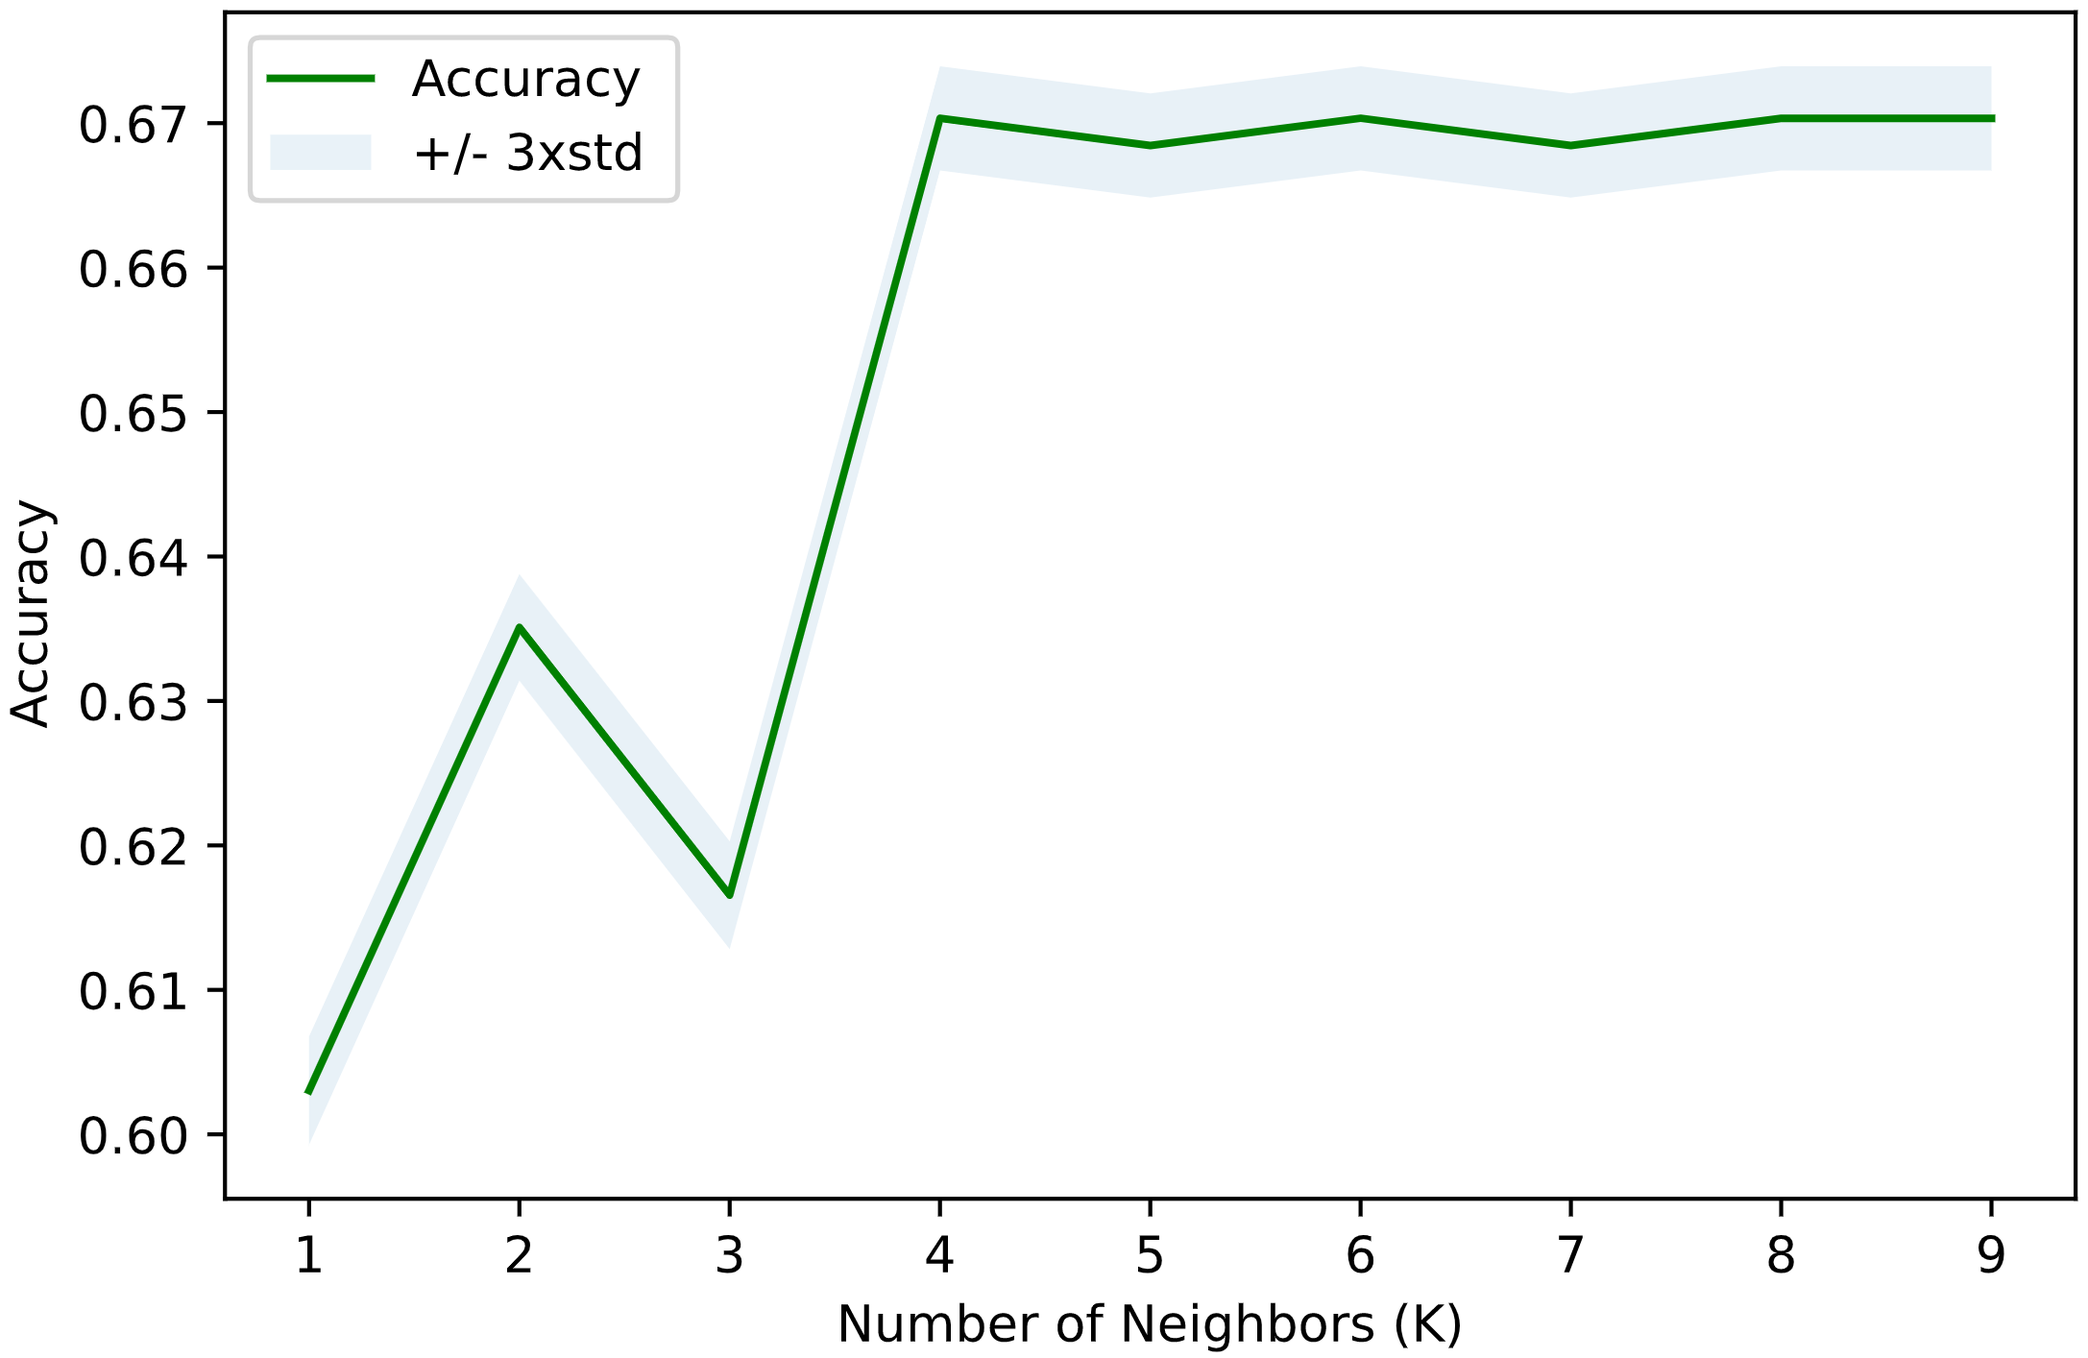
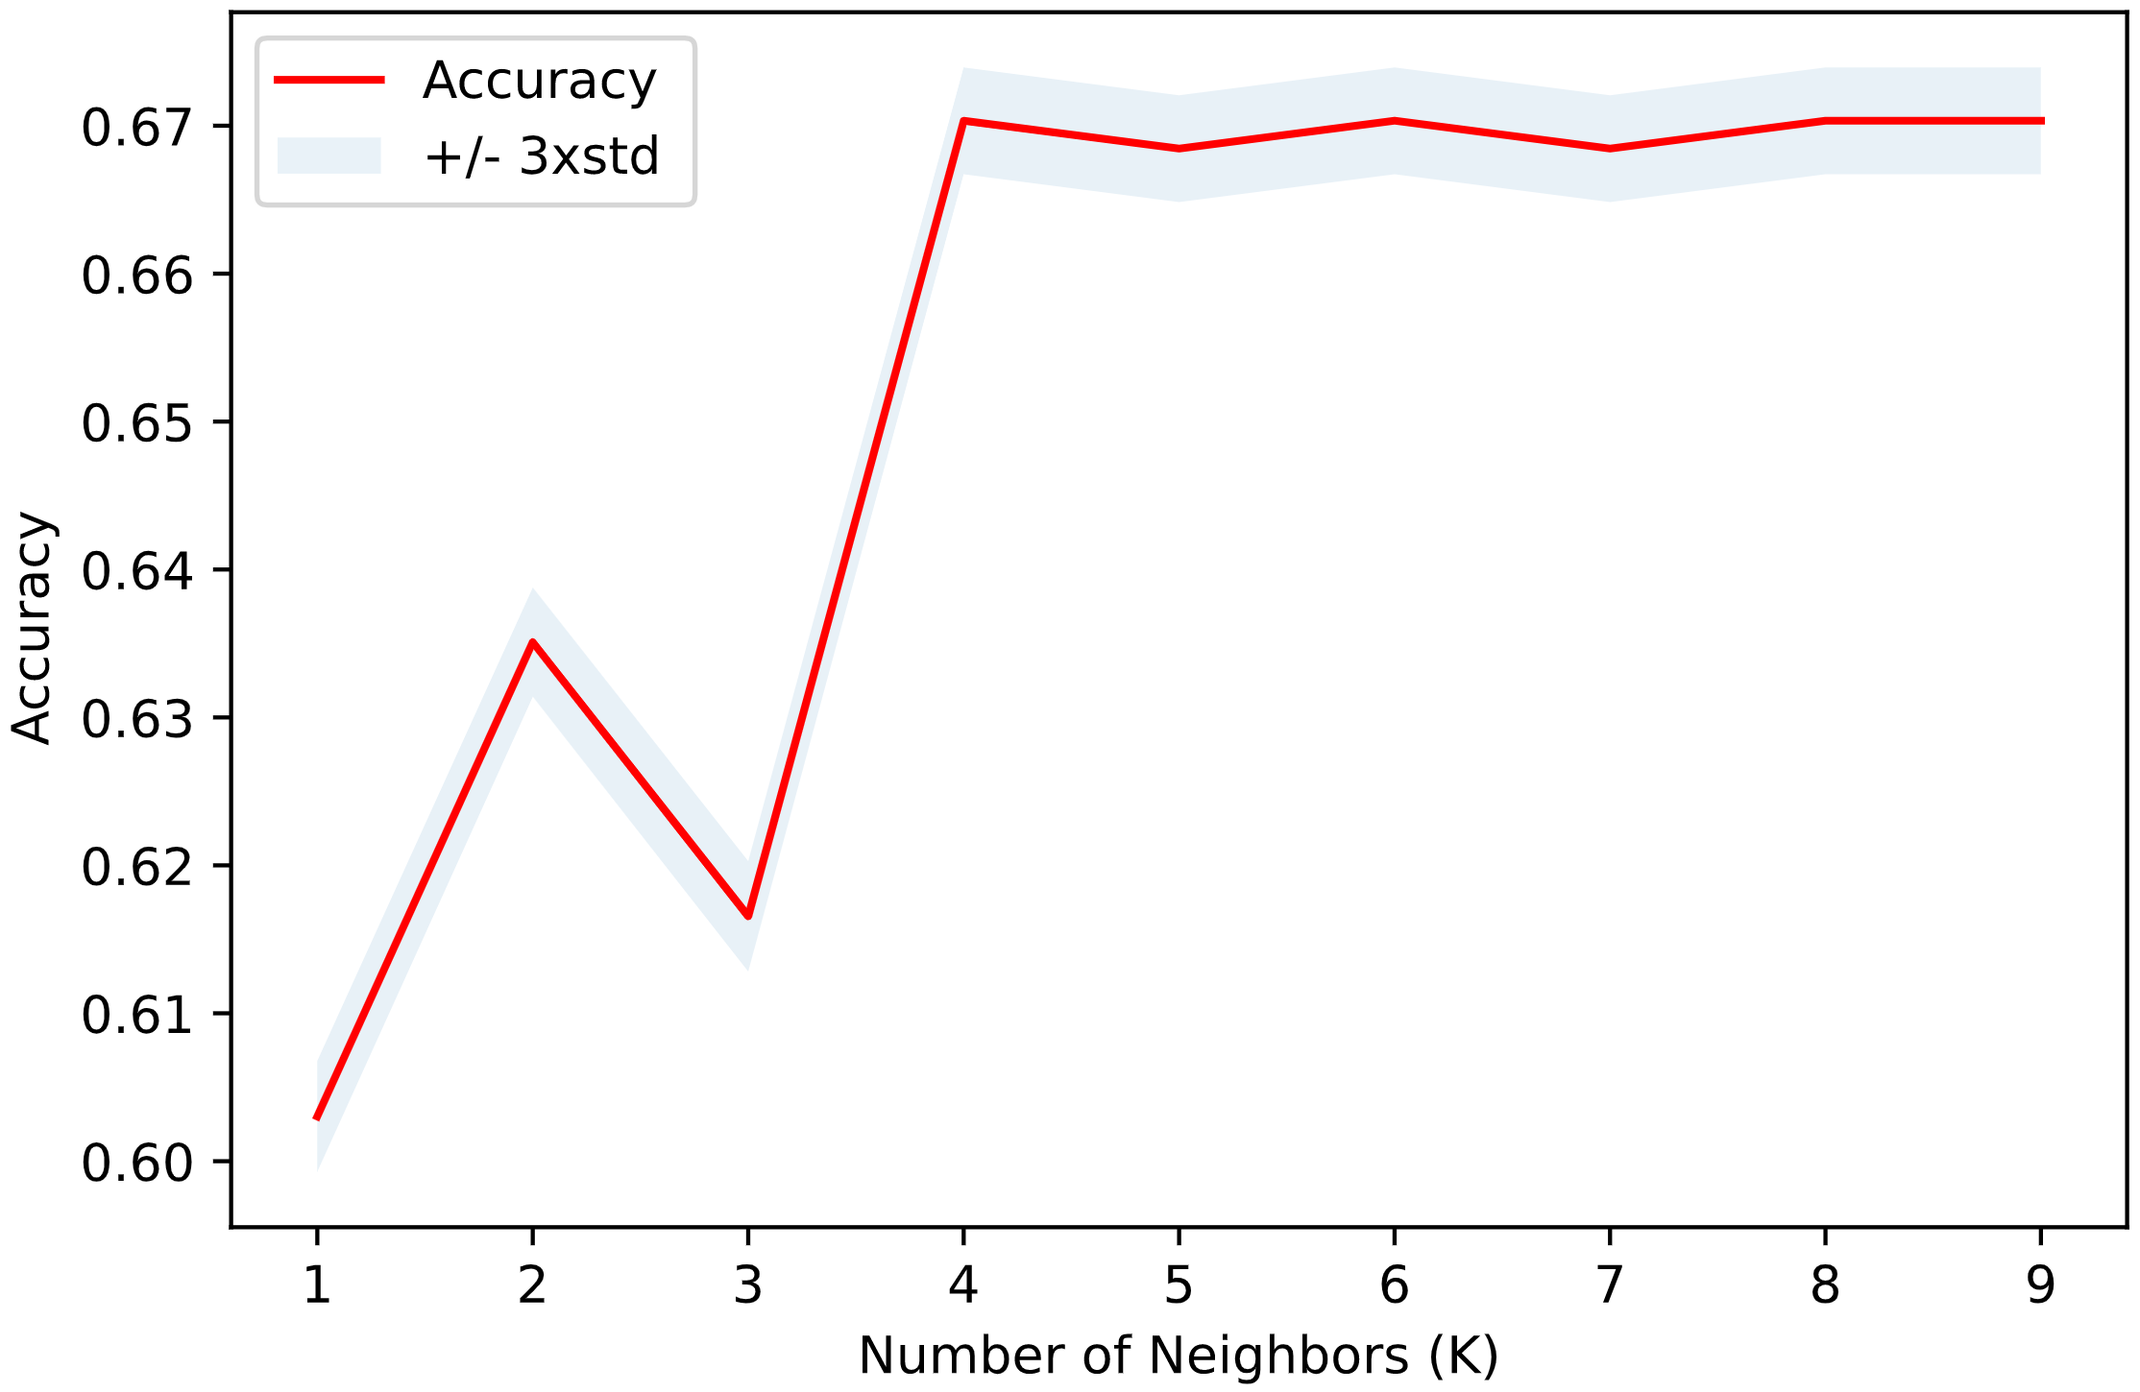
updates

diff --git a/public/blog/2020-11-25-predicting-car-accident-severity/index.html b/public/blog/2020-11-25-predicting-car-accident-severity/index.html
@@ -24,7 +24,7 @@
         "datePublished": "2020-11-25 00:00:00 \u002b0000 UTC",
         "dateModified" : "2020-11-25 00:00:00 \u002b0000 UTC",
         "url" : "https:\/\/zacdelusignan.com\/blog\/2020-11-25-predicting-car-accident-severity\/",
-        "wordCount" : "642",
+        "wordCount" : "636",
         "keywords" : [ "Python","Blog" ]
     }
     </script>
@@ -69,7 +69,7 @@
 <meta itemprop="description" content="Introduction For my capstone project as part of IBM&rsquo;s Professional Certificate in Data Science I created a machine learning model that would predict the severity of a car accident based off of the lighting conditions, road conditions, and weather. This project has many practical uses. Being able to better predict how severe an accident is enables emergency services to more effectively triage in cases of multiple accidents. It could also optimize navigation apps ability to suggest alternate routes.">
 <meta itemprop="datePublished" content="2020-11-25T00:00:00&#43;00:00" />
 <meta itemprop="dateModified" content="2020-11-25T00:00:00&#43;00:00" />
-<meta itemprop="wordCount" content="642">
+<meta itemprop="wordCount" content="636">
 
 
 
@@ -351,7 +351,8 @@
   <header>
     <div class="title">
         
-            <h2><a href="https://zacdelusignan.com/blog/2020-11-25-predicting-car-accident-severity/">Predicting Car Accident Severity</a></h2>
+            <h1><a href="https://zacdelusignan.com/blog/2020-11-25-predicting-car-accident-severity/">Predicting Car Accident Severity</a></h1>
+            
         
         
     </div>
@@ -363,7 +364,7 @@
             November 25, 2020</time>
         <span class="author">Zac de Lusignan</span>
         
-            <p>4 minute read</p>
+            <p>3 minute read</p>
         
         
     </div>
@@ -501,50 +502,47 @@ df = df[df.LIGHTCOND != 'Other']
 df['LIGHTCOND'].value_counts().plot(kind = 'bar')
 plt.show()
 </code></pre><p><img src="https://zacdelusignan.com/img/main/lightconditions2.png" alt="Light Conditions2"></p>
-<h2 id="model-selection">Model Selection</h2>
-<p>It&rsquo;s now time to build the model.</p>
+<h2 id="model-development">Model Development</h2>
+<p>To build the model we&rsquo;ll use the k-Nearest Neighbours (kNN) algorithm. Essentially, the kNN algorithm thinks that observations with similar characteristics will have similar outcomes.</p>
 <pre><code>from sklearn.model_selection import cross_val_score
 from sklearn.datasets import load_iris
 from sklearn.model_selection import train_test_split
 from sklearn.neighbors import KNeighborsClassifier
 from sklearn import metrics
-</code></pre><p>The y variable will be the severity code.</p>
+</code></pre><p>The y variable will be the severity code. This is what we&rsquo;re trying to predict.</p>
 <pre><code>y = df['SEVERITYCODE']
 y[0:5]
-</code></pre><p>The x variable will be the weather, light conditions, and road conditions.</p>
-<pre><code>X = df[['WEATHER', 'LIGHTCOND', 'ROADCOND']].values
-X[0:5]
-</code></pre><p>Now we divide this new dataframe into a training set and a test set. The training set is what the model will use to identify patterns and the test set will evaluate the accuracy. Essentially the training set is the study guide with answers for a test and the test set is the test itself.</p>
+</code></pre><p>The x variable will be the weather, light conditions, and road conditions. These characteristics are what the model will use to predict the severity code.</p>
+<pre><code>x = df[['WEATHER', 'LIGHTCOND', 'ROADCOND']].values
+x[0:5]
+</code></pre><p>Now we split the data into a training set and a test set. The training set is what the model will use to identify patterns and the test set will evaluate the accuracy.</p>
 <pre><code>from sklearn.model_selection import train_test_split
-X_train, X_test, y_train, y_test = train_test_split( X, y, test_size=0.1, random_state=5)
-print ('Train set:', X_train.shape,  y_train.shape)
-print ('Test set:', X_test.shape,  y_test.shape)
+x_train, x_test, y_train, y_test = train_test_split( x, y, test_size=0.1, random_state=5)
+print ('Train set:', x_train.shape,  y_train.shape)
+print ('Test set:', x_test.shape,  y_test.shape)
 </code></pre><pre><code>from sklearn.neighbors import KNeighborsClassifier
 </code></pre><pre><code>k = 5
-neigh = KNeighborsClassifier(n_neighbors = k).fit(X_train,y_train)
+neigh = KNeighborsClassifier(n_neighbors = k).fit(x_train,y_train)
 neigh
-</code></pre><pre><code>yhat = neigh.predict(X_test)
+</code></pre><pre><code>yhat = neigh.predict(x_test)
 yhat[0:5]
 </code></pre><pre><code>from sklearn import metrics
-print(&quot;Training set accuracy: &quot;, metrics.accuracy_score(y_train, neigh.predict(X_train)))
+print(&quot;Training set accuracy: &quot;, metrics.accuracy_score(y_train, neigh.predict(x_train)))
 print(&quot;Test set accuracy: &quot;, metrics.accuracy_score(y_test, yhat))
 </code></pre><p>Train set Accuracy:  0.6716091029739607<br>
 Test set Accuracy:  0.6684514003294892</p>
 <pre><code>Ks = 10
 mean_acc = np.zeros((Ks-1))
 std_acc = np.zeros((Ks-1))
-ConfusionMx = [];
 for n in range(1,Ks):
     
-    neigh = KNeighborsClassifier(n_neighbors = n).fit(X_train,y_train)
-    yhat=neigh.predict(X_test)
+    neigh = KNeighborsClassifier(n_neighbors = n).fit(x_train,y_train)
+    yhat=neigh.predict(x_test)
     mean_acc[n-1] = metrics.accuracy_score(y_test, yhat)
-
-    
     std_acc[n-1]=np.std(yhat==y_test)/np.sqrt(yhat.shape[0])
 
 mean_acc
-</code></pre><pre><code>plt.plot(range(1,Ks),mean_acc,'g')
+</code></pre><pre><code>plt.plot(range(1,Ks),mean_acc,'red')
 plt.fill_between(range(1,Ks),mean_acc - 1 * std_acc,mean_acc + 1 * std_acc, alpha=0.10)
 plt.legend(('Accuracy ', '+/- 3xstd'))
 plt.ylabel('Accuracy ')
@@ -552,8 +550,6 @@ plt.xlabel('Number of Neighbors (K)')
 plt.tight_layout()
 plt.show()
 </code></pre><p><img src="https://zacdelusignan.com/img/main/nearestneighbor.png" alt="Accuracy"></p>
-<pre><code>print( &quot;The best accuracy was with&quot;, mean_acc.max(), &quot;with k=&quot;, mean_acc.argmax()+1)
-</code></pre><p>The best accuracy was with 0.670334196281478 with k= 4.</p>
 <h2 id="conclusion">Conclusion</h2>
 <p>Knowing only the weather, road conditions, and light conditions we can predict with 67% accuracy how severe a car accident is.</p>
 

diff --git a/public/index.html b/public/index.html
@@ -287,7 +287,7 @@
             November 25, 2020</time>
         <span class="author">Zac de Lusignan</span>
         
-            <p>4 minute read</p>
+            <p>3 minute read</p>
         
         
     </div>
@@ -425,50 +425,47 @@ df = df[df.LIGHTCOND != 'Other']
 df['LIGHTCOND'].value_counts().plot(kind = 'bar')
 plt.show()
 </code></pre><p><img src="https://zacdelusignan.com/img/main/lightconditions2.png" alt="Light Conditions2"></p>
-<h2 id="model-selection">Model Selection</h2>
-<p>It&rsquo;s now time to build the model.</p>
+<h2 id="model-development">Model Development</h2>
+<p>To build the model we&rsquo;ll use the k-Nearest Neighbours (kNN) algorithm. Essentially, the kNN algorithm thinks that observations with similar characteristics will have similar outcomes.</p>
 <pre><code>from sklearn.model_selection import cross_val_score
 from sklearn.datasets import load_iris
 from sklearn.model_selection import train_test_split
 from sklearn.neighbors import KNeighborsClassifier
 from sklearn import metrics
-</code></pre><p>The y variable will be the severity code.</p>
+</code></pre><p>The y variable will be the severity code. This is what we&rsquo;re trying to predict.</p>
 <pre><code>y = df['SEVERITYCODE']
 y[0:5]
-</code></pre><p>The x variable will be the weather, light conditions, and road conditions.</p>
-<pre><code>X = df[['WEATHER', 'LIGHTCOND', 'ROADCOND']].values
-X[0:5]
-</code></pre><p>Now we divide this new dataframe into a training set and a test set. The training set is what the model will use to identify patterns and the test set will evaluate the accuracy. Essentially the training set is the study guide with answers for a test and the test set is the test itself.</p>
+</code></pre><p>The x variable will be the weather, light conditions, and road conditions. These characteristics are what the model will use to predict the severity code.</p>
+<pre><code>x = df[['WEATHER', 'LIGHTCOND', 'ROADCOND']].values
+x[0:5]
+</code></pre><p>Now we split the data into a training set and a test set. The training set is what the model will use to identify patterns and the test set will evaluate the accuracy.</p>
 <pre><code>from sklearn.model_selection import train_test_split
-X_train, X_test, y_train, y_test = train_test_split( X, y, test_size=0.1, random_state=5)
-print ('Train set:', X_train.shape,  y_train.shape)
-print ('Test set:', X_test.shape,  y_test.shape)
+x_train, x_test, y_train, y_test = train_test_split( x, y, test_size=0.1, random_state=5)
+print ('Train set:', x_train.shape,  y_train.shape)
+print ('Test set:', x_test.shape,  y_test.shape)
 </code></pre><pre><code>from sklearn.neighbors import KNeighborsClassifier
 </code></pre><pre><code>k = 5
-neigh = KNeighborsClassifier(n_neighbors = k).fit(X_train,y_train)
+neigh = KNeighborsClassifier(n_neighbors = k).fit(x_train,y_train)
 neigh
-</code></pre><pre><code>yhat = neigh.predict(X_test)
+</code></pre><pre><code>yhat = neigh.predict(x_test)
 yhat[0:5]
 </code></pre><pre><code>from sklearn import metrics
-print(&quot;Training set accuracy: &quot;, metrics.accuracy_score(y_train, neigh.predict(X_train)))
+print(&quot;Training set accuracy: &quot;, metrics.accuracy_score(y_train, neigh.predict(x_train)))
 print(&quot;Test set accuracy: &quot;, metrics.accuracy_score(y_test, yhat))
 </code></pre><p>Train set Accuracy:  0.6716091029739607<br>
 Test set Accuracy:  0.6684514003294892</p>
 <pre><code>Ks = 10
 mean_acc = np.zeros((Ks-1))
 std_acc = np.zeros((Ks-1))
-ConfusionMx = [];
 for n in range(1,Ks):
     
-    neigh = KNeighborsClassifier(n_neighbors = n).fit(X_train,y_train)
-    yhat=neigh.predict(X_test)
+    neigh = KNeighborsClassifier(n_neighbors = n).fit(x_train,y_train)
+    yhat=neigh.predict(x_test)
     mean_acc[n-1] = metrics.accuracy_score(y_test, yhat)
-
-    
     std_acc[n-1]=np.std(yhat==y_test)/np.sqrt(yhat.shape[0])
 
 mean_acc
-</code></pre><pre><code>plt.plot(range(1,Ks),mean_acc,'g')
+</code></pre><pre><code>plt.plot(range(1,Ks),mean_acc,'red')
 plt.fill_between(range(1,Ks),mean_acc - 1 * std_acc,mean_acc + 1 * std_acc, alpha=0.10)
 plt.legend(('Accuracy ', '+/- 3xstd'))
 plt.ylabel('Accuracy ')
@@ -476,8 +473,6 @@ plt.xlabel('Number of Neighbors (K)')
 plt.tight_layout()
 plt.show()
 </code></pre><p><img src="https://zacdelusignan.com/img/main/nearestneighbor.png" alt="Accuracy"></p>
-<pre><code>print( &quot;The best accuracy was with&quot;, mean_acc.max(), &quot;with k=&quot;, mean_acc.argmax()+1)
-</code></pre><p>The best accuracy was with 0.670334196281478 with k= 4.</p>
 <h2 id="conclusion">Conclusion</h2>
 <p>Knowing only the weather, road conditions, and light conditions we can predict with 67% accuracy how severe a car accident is.</p>
 

diff --git a/public/tags/python/index.html b/public/tags/python/index.html
@@ -278,8 +278,7 @@
   <header>
     <div class="title">
         
-            <h1><a href="https://zacdelusignan.com/blog/2020-11-25-predicting-car-accident-severity/">Predicting Car Accident Severity</a></h1>
-            
+            <h2><a href="https://zacdelusignan.com/blog/2020-11-25-predicting-car-accident-severity/">Predicting Car Accident Severity</a></h2>
         
         
     </div>
@@ -291,7 +290,7 @@
             November 25, 2020</time>
         <span class="author">Zac de Lusignan</span>
         
-            <p>4 minute read</p>
+            <p>3 minute read</p>
         
         
     </div>

diff --git a/public/blog/index.html b/public/blog/index.html
@@ -289,7 +289,7 @@
             November 25, 2020</time>
         <span class="author">Zac de Lusignan</span>
         
-            <p>4 minute read</p>
+            <p>3 minute read</p>
         
         
     </div>
@@ -342,8 +342,7 @@
   <header>
     <div class="title">
         
-            <h1><a href="https://zacdelusignan.com/blog/roman-emperors/">Data Viz - Roman Emperors</a></h1>
-            
+            <h2><a href="https://zacdelusignan.com/blog/roman-emperors/">Data Viz - Roman Emperors</a></h2>
         
         
     </div>

diff --git a/public/blog/roman-emperors/index.html b/public/blog/roman-emperors/index.html
@@ -360,7 +360,8 @@ Code Below is the code used to create the visualization using R:
   <header>
     <div class="title">
         
-            <h2><a href="https://zacdelusignan.com/blog/roman-emperors/">Data Viz - Roman Emperors</a></h2>
+            <h1><a href="https://zacdelusignan.com/blog/roman-emperors/">Data Viz - Roman Emperors</a></h1>
+            
         
         
     </div>

diff --git a/public/categories/machine-learning/index.html b/public/categories/machine-learning/index.html
@@ -292,7 +292,7 @@
             November 25, 2020</time>
         <span class="author">Zac de Lusignan</span>
         
-            <p>4 minute read</p>
+            <p>3 minute read</p>
         
         
     </div>

diff --git a/content/blog/2020-11-25-predicting-car-accident-severity/index.md b/content/blog/2020-11-25-predicting-car-accident-severity/index.md
@@ -124,9 +124,9 @@ plt.show()
 ![Light Conditions2](/img/main/lightconditions2.png)
 
 
-## Model Selection
+## Model Development
 
-It's now time to build the model.
+To build the model we'll use the k-Nearest Neighbours (kNN) algorithm. Essentially, the kNN algorithm thinks that observations with similar characteristics will have similar outcomes.
 
 ````
 from sklearn.model_selection import cross_val_score
@@ -135,24 +135,24 @@ from sklearn.model_selection import train_test_split
 from sklearn.neighbors import KNeighborsClassifier
 from sklearn import metrics
 ````
-The y variable will be the severity code.
+The y variable will be the severity code. This is what we're trying to predict.
 ````
 y = df['SEVERITYCODE']
 y[0:5]
 ````
-The x variable will be the weather, light conditions, and road conditions.
+The x variable will be the weather, light conditions, and road conditions. These characteristics are what the model will use to predict the severity code.
 
 ````
-X = df[['WEATHER', 'LIGHTCOND', 'ROADCOND']].values
-X[0:5]
+x = df[['WEATHER', 'LIGHTCOND', 'ROADCOND']].values
+x[0:5]
 ````
-Now we divide this new dataframe into a training set and a test set. The training set is what the model will use to identify patterns and the test set will evaluate the accuracy. Essentially the training set is the study guide with answers for a test and the test set is the test itself.
+Now we split the data into a training set and a test set. The training set is what the model will use to identify patterns and the test set will evaluate the accuracy.
 
 ````
 from sklearn.model_selection import train_test_split
-X_train, X_test, y_train, y_test = train_test_split( X, y, test_size=0.1, random_state=5)
-print ('Train set:', X_train.shape,  y_train.shape)
-print ('Test set:', X_test.shape,  y_test.shape)
+x_train, x_test, y_train, y_test = train_test_split( x, y, test_size=0.1, random_state=5)
+print ('Train set:', x_train.shape,  y_train.shape)
+print ('Test set:', x_test.shape,  y_test.shape)
 ````
 
 ````
@@ -160,16 +160,16 @@ from sklearn.neighbors import KNeighborsClassifier
 ````
 ````
 k = 5
-neigh = KNeighborsClassifier(n_neighbors = k).fit(X_train,y_train)
+neigh = KNeighborsClassifier(n_neighbors = k).fit(x_train,y_train)
 neigh
 ````
 ````
-yhat = neigh.predict(X_test)
+yhat = neigh.predict(x_test)
 yhat[0:5]
 ````
 ````
 from sklearn import metrics
-print("Training set accuracy: ", metrics.accuracy_score(y_train, neigh.predict(X_train)))
+print("Training set accuracy: ", metrics.accuracy_score(y_train, neigh.predict(x_train)))
 print("Test set accuracy: ", metrics.accuracy_score(y_test, yhat))
 ````
 Train set Accuracy:  0.6716091029739607 \
@@ -179,20 +179,17 @@ Test set Accuracy:  0.6684514003294892
 Ks = 10
 mean_acc = np.zeros((Ks-1))
 std_acc = np.zeros((Ks-1))
-ConfusionMx = [];
 for n in range(1,Ks):
     
-    neigh = KNeighborsClassifier(n_neighbors = n).fit(X_train,y_train)
-    yhat=neigh.predict(X_test)
+    neigh = KNeighborsClassifier(n_neighbors = n).fit(x_train,y_train)
+    yhat=neigh.predict(x_test)
     mean_acc[n-1] = metrics.accuracy_score(y_test, yhat)
-
-    
     std_acc[n-1]=np.std(yhat==y_test)/np.sqrt(yhat.shape[0])
 
 mean_acc
 ````
 ````
-plt.plot(range(1,Ks),mean_acc,'g')
+plt.plot(range(1,Ks),mean_acc,'red')
 plt.fill_between(range(1,Ks),mean_acc - 1 * std_acc,mean_acc + 1 * std_acc, alpha=0.10)
 plt.legend(('Accuracy ', '+/- 3xstd'))
 plt.ylabel('Accuracy ')
@@ -202,11 +199,6 @@ plt.show()
 ````
 
 ![Accuracy](/img/main/nearestneighbor.png)
-
-````
-print( "The best accuracy was with", mean_acc.max(), "with k=", mean_acc.argmax()+1)
-````
-The best accuracy was with 0.670334196281478 with k= 4.
 
 ## Conclusion
 
